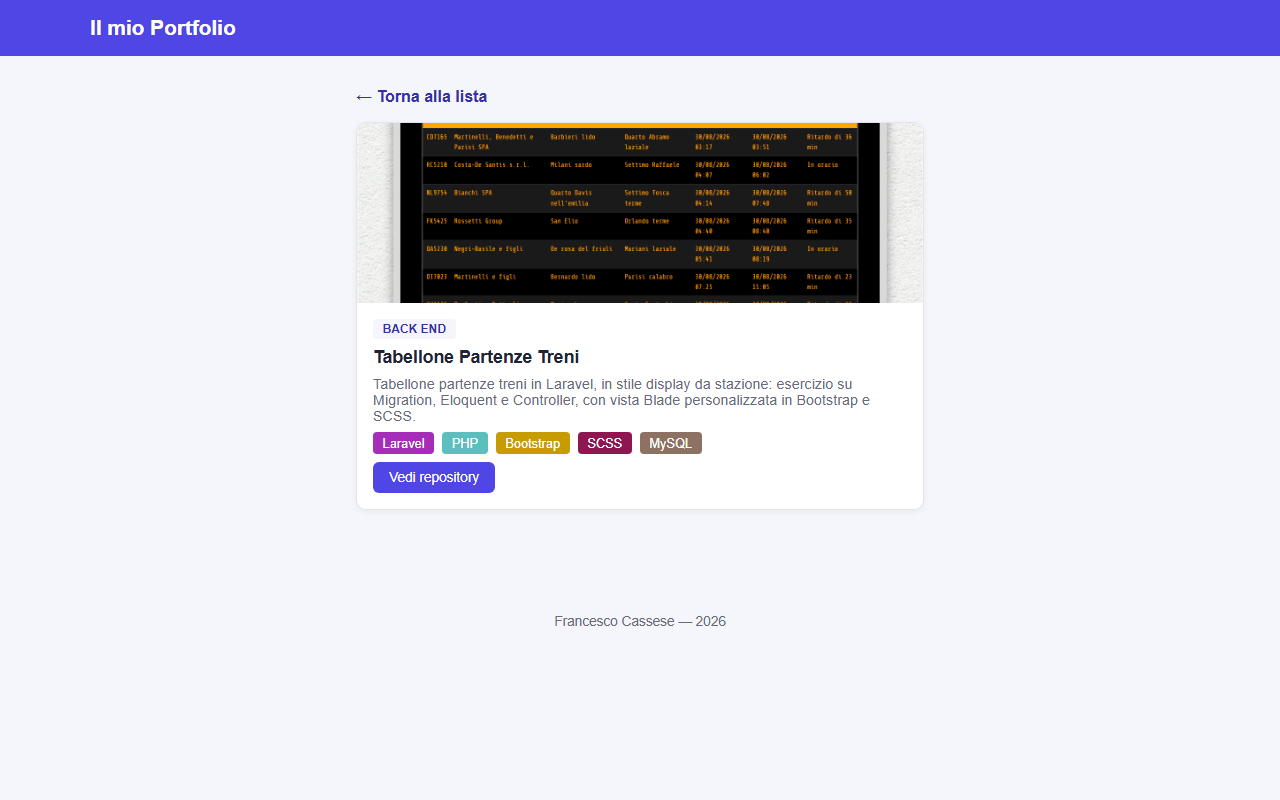
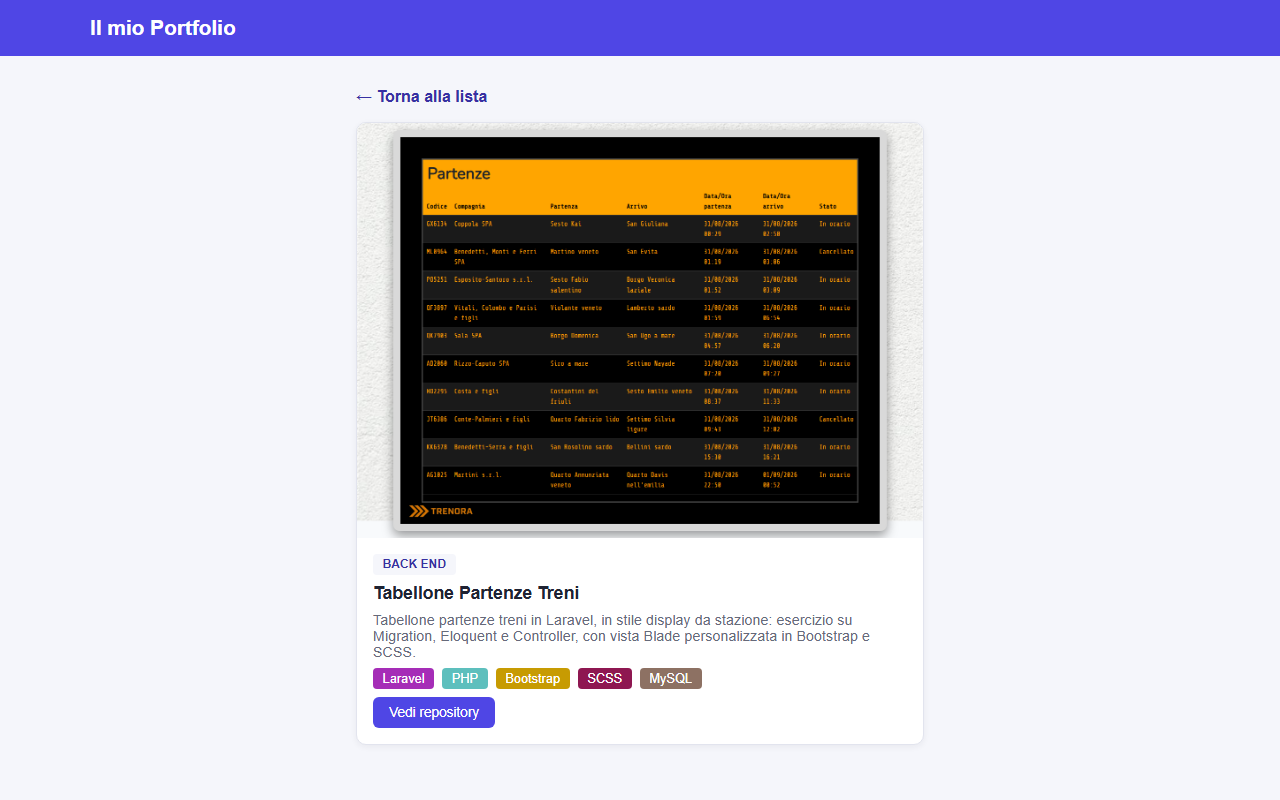
fix: show project images uncropped in card and detail views

Changed region(s): [[0.2812, 0.1562, 0.7188, 0.9375]]

diff --git a/src/components/ProjectCard.jsx b/src/components/ProjectCard.jsx
@@ -9,7 +9,7 @@ function ProjectCard({ project, detailed = false }) {
     return (
         <article className={styles.projectCard}>
             <img
-                className={styles.projectCardImage}
+                className={`${styles.projectCardImage} ${detailed ? styles.projectCardImageDetailed : ""}`}
                 src={`${BASE_URL}/storage/${image}`}
                 alt={title}
             />

diff --git a/src/components/ProjectCard.module.css b/src/components/ProjectCard.module.css
@@ -17,7 +17,15 @@
 .projectCardImage {
   width: 100%;
   height: 180px;
-  object-fit: cover;
+  object-fit: contain;
+  background-color: var(--color-background);
+}
+
+.projectCardImageDetailed {
+  height: auto;
+  max-height: 420px;
+  object-fit: contain;
+  background-color: var(--color-background);
 }
 
 .projectCardBody {
